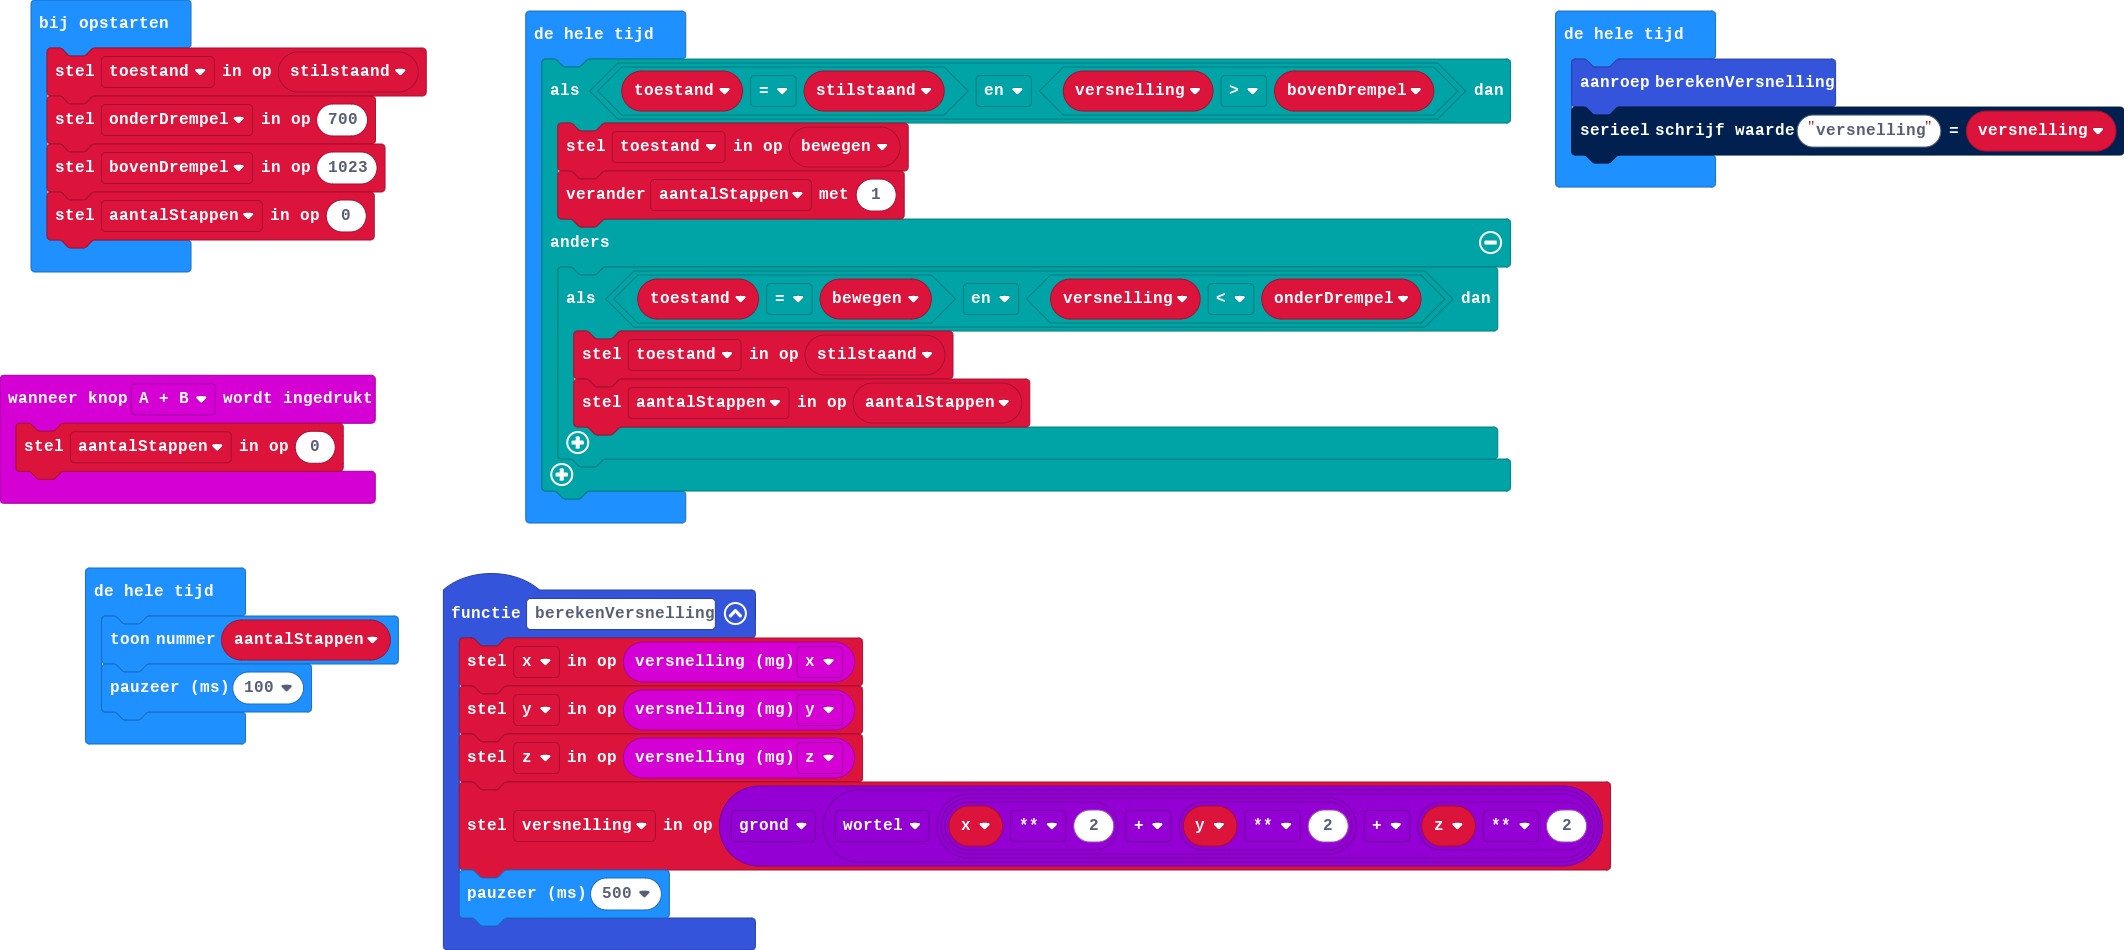
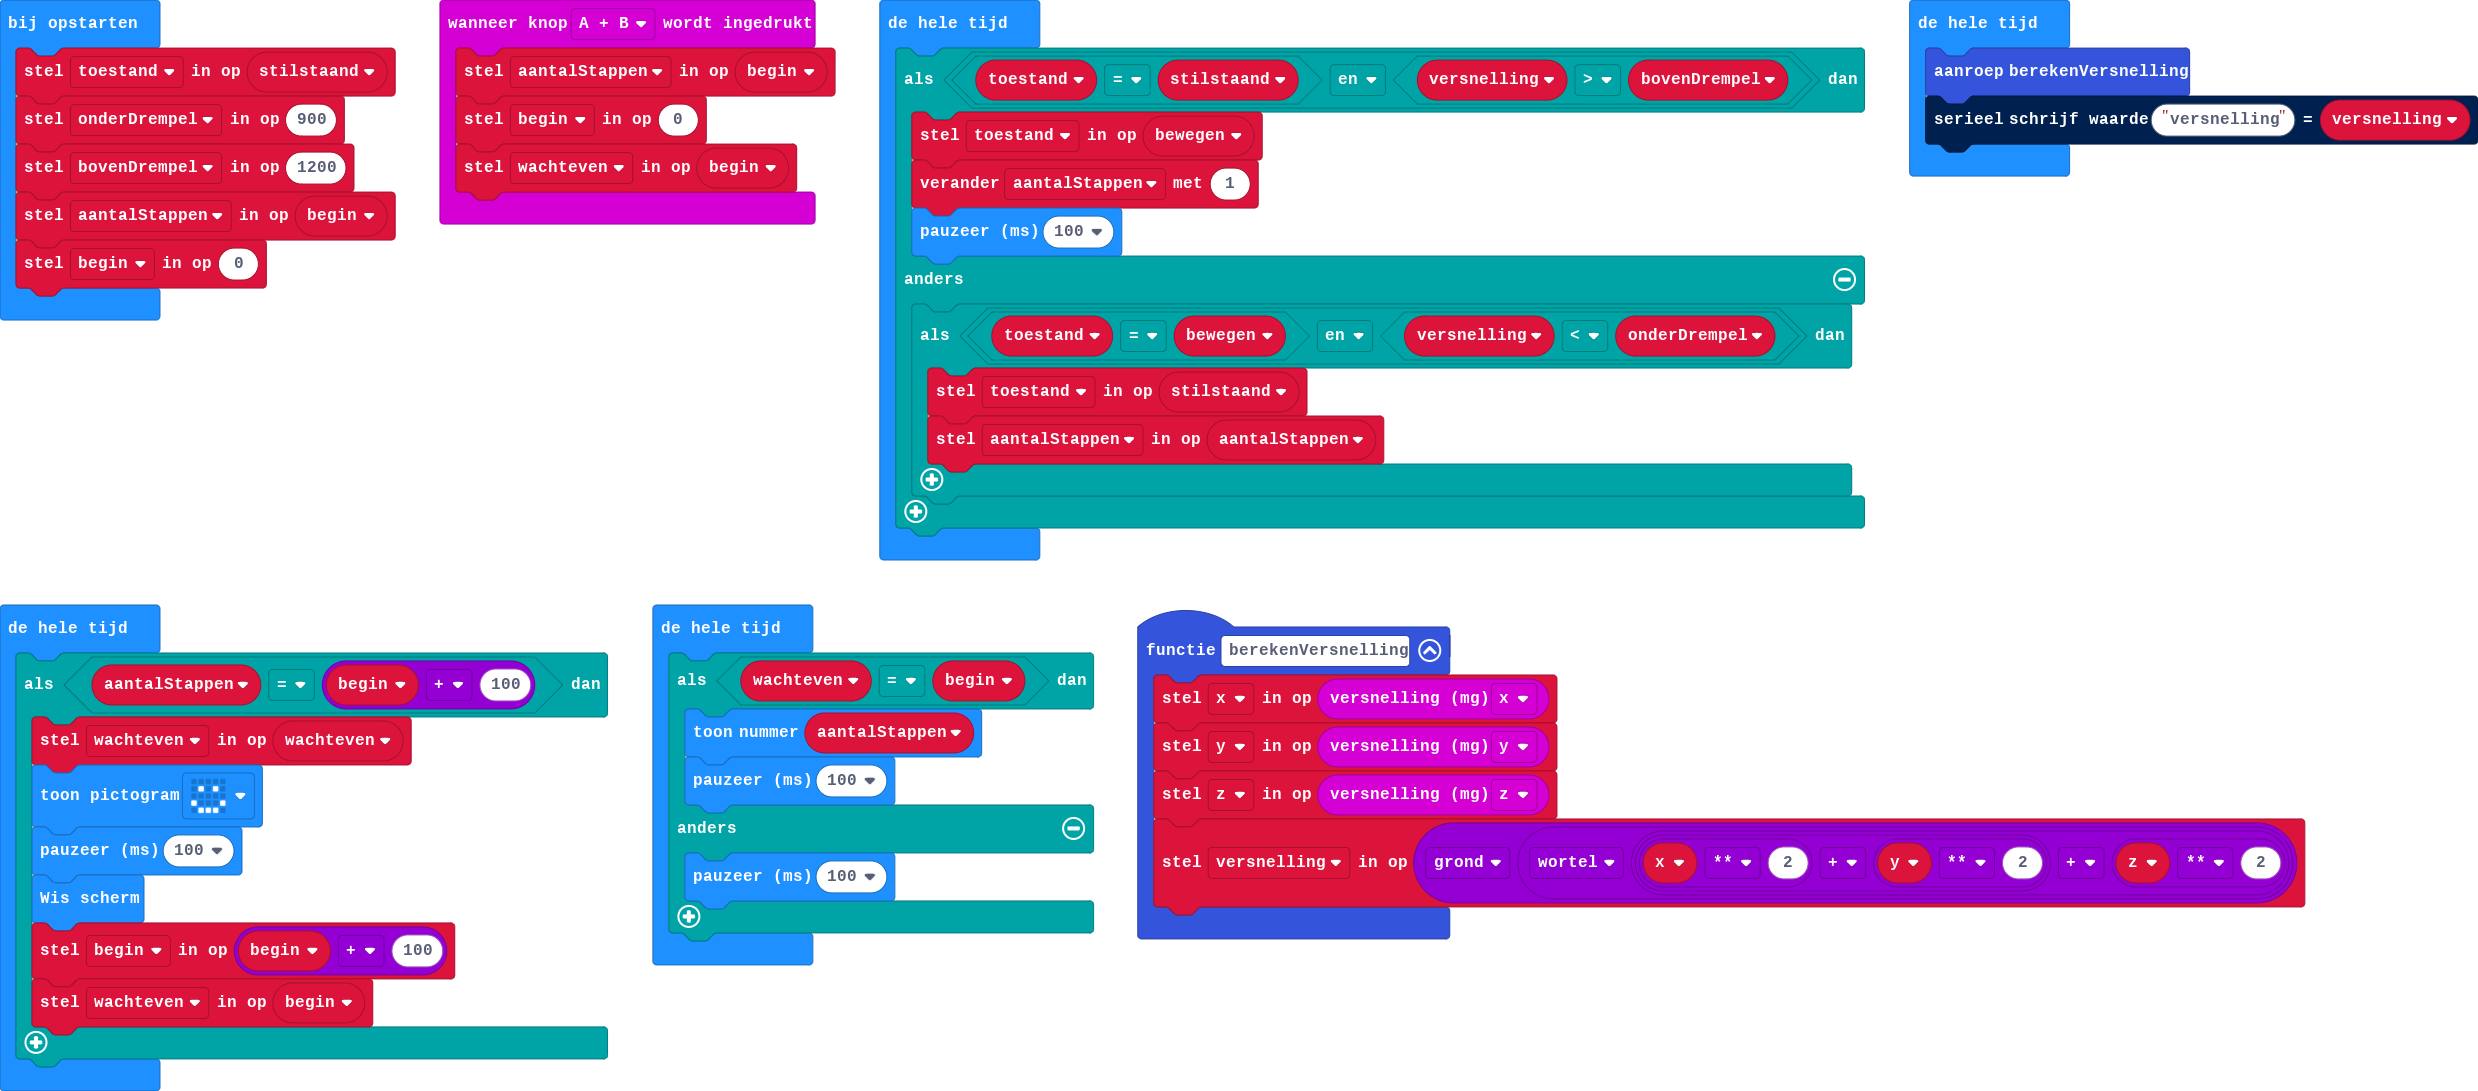
main.blocks, main.ts bijwerken

diff --git a/main.ts b/main.ts
@@ -3,26 +3,31 @@ function berekenVersnelling () {
     y = input.acceleration(Dimension.Y)
     z = input.acceleration(Dimension.Z)
     versnelling = Math.floor(Math.sqrt(x ** 2 + y ** 2 + z ** 2))
-    basic.pause(500)
 }
 input.onButtonPressed(Button.AB, function () {
-    aantalStappen = 0
+    aantalStappen = begin
+    begin = 0
+    wachteven = begin
 })
+let wachteven = 0
 let versnelling = 0
 let z = 0
 let y = 0
 let x = 0
+let begin = 0
 let aantalStappen = 0
 let stilstaand = 0
 let toestand = stilstaand
-let onderDrempel = 700
-let bovenDrempel = 1023
-aantalStappen = 0
+let onderDrempel = 900
+let bovenDrempel = 1200
+aantalStappen = begin
+begin = 0
 basic.forever(function () {
     let bewegen = 0
     if (toestand == stilstaand && versnelling > bovenDrempel) {
         toestand = bewegen
         aantalStappen += 1
+        basic.pause(100)
     } else {
         if (toestand == bewegen && versnelling < onderDrempel) {
             toestand = stilstaand
@@ -35,6 +40,20 @@ basic.forever(function () {
     serial.writeValue("versnelling", versnelling)
 })
 basic.forever(function () {
-    basic.showNumber(aantalStappen)
-    basic.pause(100)
+    if (aantalStappen == begin + 100) {
+        wachteven = wachteven
+        basic.showIcon(IconNames.Happy)
+        basic.pause(100)
+        basic.clearScreen()
+        begin = begin + 100
+        wachteven = begin
+    }
+})
+basic.forever(function () {
+    if (wachteven == begin) {
+        basic.showNumber(aantalStappen)
+        basic.pause(100)
+    } else {
+        basic.pause(100)
+    }
 })
